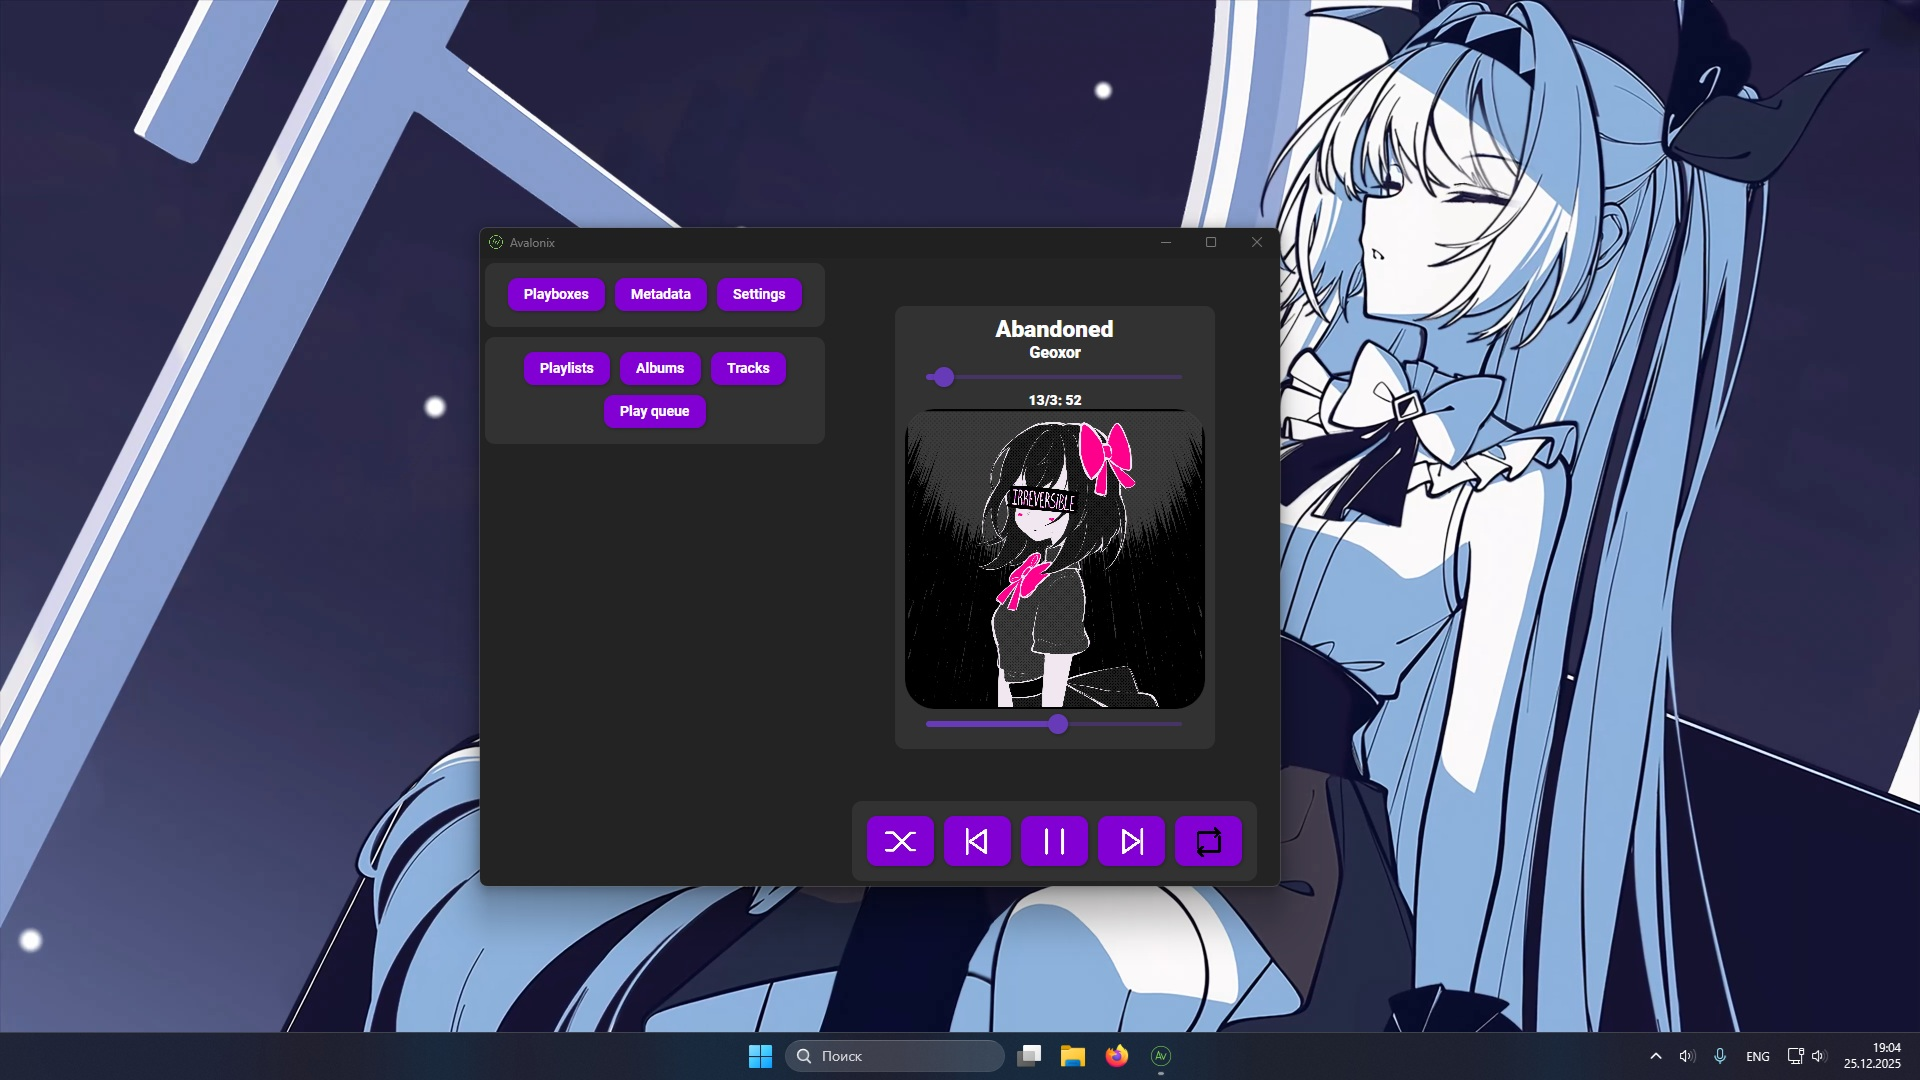
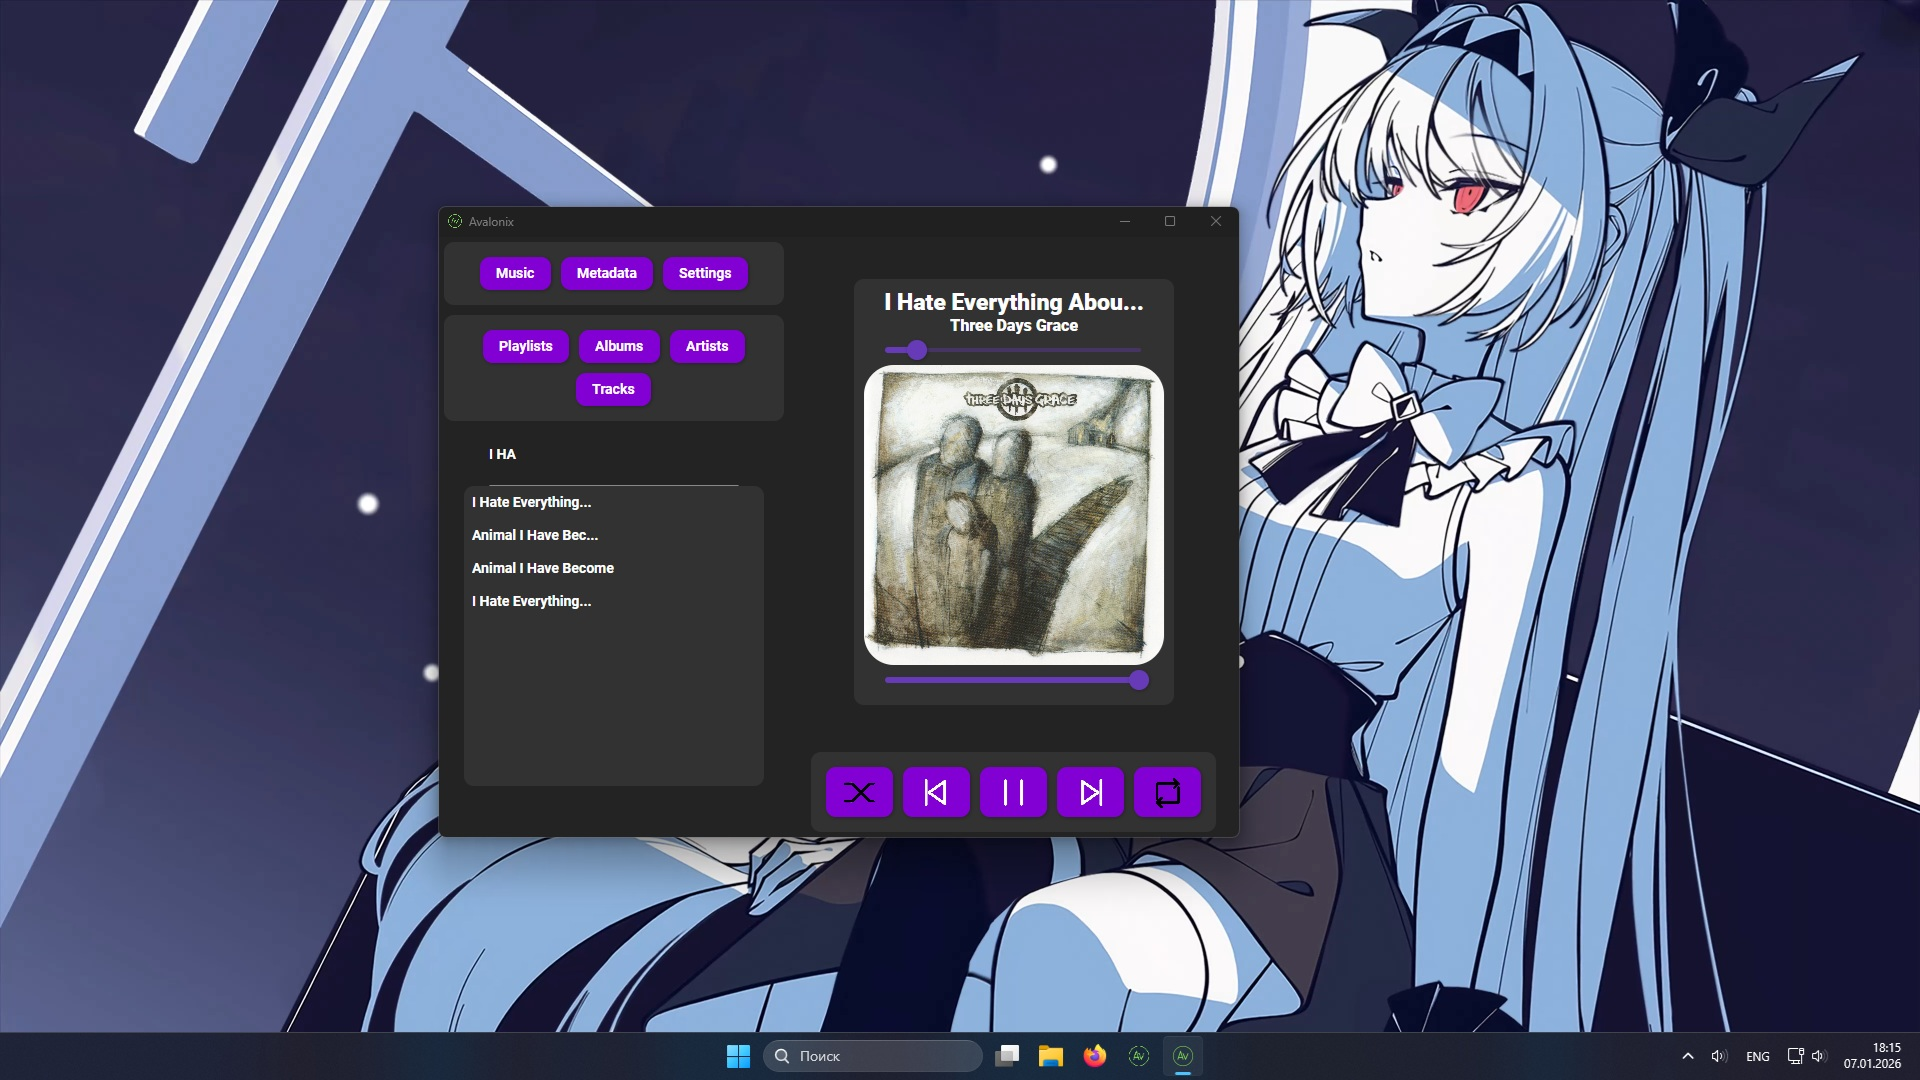
last version

diff --git a/Services/PlayableManager/ArtistManager/ArtistManager.cs b/Services/PlayableManager/ArtistManager/ArtistManager.cs
@@ -30,6 +30,7 @@ public class ArtistManager(
     public CancellationTokenSource? GlobalCancellationTokenSource { get; private set; }
     public IMediaPlayer MediaPlayer { get; } = mediaPlayer;
     public IPlayable? PlayingPlayable { get; set; }
+
     public async Task<List<IPlayable>> GetPlayables()
     {
         var result = await Task.Run(GetArtists);
@@ -72,46 +73,6 @@ public class ArtistManager(
         });
     }
 
-    private async Task<List<Artist>> GetArtists()
-    {
-        await Task.Run(LoadTracks);
-
-        if (!_tracksLoaded)
-        {
-            logger.LogWarning("Tracks metadata not loaded yet. Call LoadTracks() first.");
-            return [];
-        }
-
-        var allValidTracks = _tracks.Where(track =>
-            !string.IsNullOrEmpty(track.Metadata.Artist));
-
-        var albumGroups = allValidTracks.GroupBy(track => new { track.Metadata.Artist});
-
-        return albumGroups.Select(group =>
-            new Artist(group.ToList(), player, logger, settingsManager.Settings.Avalonix.PlaySettings)).ToList();
-    }
-    
-    private async Task LoadTracks()
-    {
-        var paths = diskManager.GetMusicFiles();
-
-        _tracks.Clear();
-        _tracksLoaded = false;
-
-        var tracks = new Track[paths.Count];
-
-        for (var i = 0; i < tracks.Length; i++)
-        {
-            var path = paths[i];
-            var track = new Track(path, cacheManager);
-            await track.FillPrimaryMetaData();
-            tracks[i] = track;
-        }
-
-        _tracks.AddRange(tracks);
-        _tracksLoaded = true;
-    }
-
     public event Action<bool> PlaybackStateChanged
     {
         add => player.PlaybackStateChanged += value;
@@ -137,4 +98,44 @@ public class ArtistManager(
     }
 
     public event Action? PlayableChanged;
+
+    private async Task<List<Artist>> GetArtists()
+    {
+        await Task.Run(LoadTracks);
+
+        if (!_tracksLoaded)
+        {
+            logger.LogWarning("Tracks metadata not loaded yet. Call LoadTracks() first.");
+            return [];
+        }
+
+        var allValidTracks = _tracks.Where(track =>
+            !string.IsNullOrEmpty(track.Metadata.Artist));
+
+        var albumGroups = allValidTracks.GroupBy(track => new { track.Metadata.Artist });
+
+        return albumGroups.Select(group =>
+            new Artist(group.ToList(), player, logger, settingsManager.Settings.Avalonix.PlaySettings)).ToList();
+    }
+
+    private async Task LoadTracks()
+    {
+        var paths = diskManager.GetMusicFiles();
+
+        _tracks.Clear();
+        _tracksLoaded = false;
+
+        var tracks = new Track[paths.Count];
+
+        for (var i = 0; i < tracks.Length; i++)
+        {
+            var path = paths[i];
+            var track = new Track(path, cacheManager);
+            await track.FillPrimaryMetaData();
+            tracks[i] = track;
+        }
+
+        _tracks.AddRange(tracks);
+        _tracksLoaded = true;
+    }
 }

diff --git a/View/SecondaryWindows/AboutWindow/AboutWindow.axaml.cs b/View/SecondaryWindows/AboutWindow/AboutWindow.axaml.cs
@@ -15,7 +15,7 @@ public partial class AboutWindow : Window, ISecondaryWindow
     private const string Url = "https://github.com/AvalonixPlayer/Avalonix";
     private readonly ILogger _logger;
     private readonly IVersionManager _versionManager;
-    
+
     public AboutWindow(ILogger logger, IVersionManager versionManager)
     {
         _logger = logger;
@@ -23,6 +23,14 @@ public partial class AboutWindow : Window, ISecondaryWindow
         _versionManager = versionManager;
         InitializeControls();
         _logger.LogInformation("About window loaded");
+    }
+
+    public void InitializeControls()
+    {
+        var currentRelease = _versionManager.CurrentRelease;
+        var lastRelease = Task.Run(_versionManager.GetLastRelease).Result;
+        VersionLabel.Text = $"Version: {currentRelease.Version}";
+        LastVersionLabel.Text = $"Last Version: {lastRelease.Version}";
     }
 
     private void OpenUrlButton_OnClick(object? sender, RoutedEventArgs e)
@@ -56,13 +64,5 @@ public partial class AboutWindow : Window, ISecondaryWindow
         {
             _logger.LogError("An error occurred: {ExMessage}", ex.Message);
         }
-    }
-
-    public void InitializeControls()
-    {
-        var currentRelease = _versionManager.CurrentRelease;
-        var lastRelease = Task.Run(_versionManager.GetLastRelease).Result;
-        VersionLabel.Text = $"Version: {currentRelease.Version}";
-        LastVersionLabel.Text = $"Last Version: {lastRelease.Version}";
     }
 }

diff --git a/View/SecondaryWindows/EditMetadataWindow/EditMetadataWindow.cs b/View/SecondaryWindows/EditMetadataWindow/EditMetadataWindow.cs
@@ -30,6 +30,18 @@ public partial class EditMetadataWindow : Window, ISecondaryWindow
         InitializeControls();
     }
 
+    public void InitializeControls()
+    {
+        _newCoverPath = null;
+        Title += _track.Metadata.TrackName;
+        Name.Text = _track.Metadata.TrackName;
+        Artist.Text = _track.Metadata.Artist;
+        Album.Text = _track.Metadata.Album;
+        Genre.Text = _track.Metadata.Genre;
+        Year.Text = _track.Metadata.Year.ToString();
+        Lyric.Text = _track.Metadata.Lyric;
+    }
+
     private async void SelectCover(object? sender, RoutedEventArgs e)
     {
         _newCoverPath = await _vm.OpenTrackFileDialogAsync(this);
@@ -54,17 +66,5 @@ public partial class EditMetadataWindow : Window, ISecondaryWindow
             Cover = cover
         };
         await _track.RewriteMetaData(newMetadata);
-    }
-
-    public void InitializeControls()
-    {
-        _newCoverPath = null;
-        Title += _track.Metadata.TrackName;
-        Name.Text = _track.Metadata.TrackName;
-        Artist.Text = _track.Metadata.Artist;
-        Album.Text = _track.Metadata.Album;
-        Genre.Text = _track.Metadata.Genre;
-        Year.Text = _track.Metadata.Year.ToString();
-        Lyric.Text = _track.Metadata.Lyric;
     }
 }

diff --git a/View/MainWindow.axaml.cs b/View/MainWindow.axaml.cs
@@ -1,5 +1,4 @@
 using System;
-using System.Collections.Generic;
 using System.IO;
 using System.Linq;
 using System.Threading.Tasks;
@@ -47,11 +46,11 @@ public partial class MainWindow : Window
     private readonly Image _playButtonImage = GetImageFromAvares("buttons/play.png");
     private readonly ISettingsManager _settingsManager;
 
-    private Bitmap? _currentAlbumCoverBitmap; 
-
     private readonly Timer _timer;
     private readonly IMainWindowViewModel _vm;
     private readonly IWindowManager _windowManager;
+
+    private Bitmap? _currentAlbumCoverBitmap;
 
     private bool _isUserDragging;
 
@@ -204,7 +203,7 @@ public partial class MainWindow : Window
             _logger.LogError("Error while select album: {ex}", ex);
         }
     }
-    
+
     private async void SelectArtist_OnClick(object? sender, RoutedEventArgs e)
     {
         try
@@ -414,9 +413,9 @@ public partial class MainWindow : Window
         var currentTrack = _playablesManager.CurrentTrack;
 
         var coverData = currentTrack?.Metadata.Cover;
-        
+
         _currentAlbumCoverBitmap?.Dispose();
-        
+
         if (coverData == null)
         {
             var pathToAutoCover = _settingsManager.Settings?.Avalonix.AutoAlbumCoverPath;

diff --git a/View/SecondaryWindows/PlayableSelectWindow/PlayableSelectWindow.axaml.cs b/View/SecondaryWindows/PlayableSelectWindow/PlayableSelectWindow.axaml.cs
@@ -25,7 +25,14 @@ public partial class PlayableSelectWindow : Window, ISecondaryWindow
         _playables = Task.Run(async () => await _vm.GetPlayableItems()).Result;
         InitializeControls();
     }
-    
+
+    public void InitializeControls()
+    {
+        PlaylistBox.ItemsSource = _playables.Select(p => p.Name).ToList();
+        Title = _vm.Strategy.WindowTitle;
+        SearchBox.Watermark = _vm.Strategy.ActionButtonText;
+    }
+
     private void SearchBox_OnTextChanged(object? sender, TextChangedEventArgs e)
     {
         var text = SearchBox.Text;
@@ -62,12 +69,5 @@ public partial class PlayableSelectWindow : Window, ISecondaryWindow
         {
             _logger.LogError("Error while starting playlist in SelectWindow: {ex}", ex.Message);
         }
-    }
-
-    public void InitializeControls()
-    {
-        PlaylistBox.ItemsSource = _playables.Select(p => p.Name).ToList();
-        Title = _vm.Strategy.WindowTitle;
-        SearchBox.Watermark = _vm.Strategy.ActionButtonText;
     }
 }

diff --git a/Services/WindowManager/WindowManager.cs b/Services/WindowManager/WindowManager.cs
@@ -65,7 +65,7 @@ public class WindowManager(
     {
         return AlbumSelectWindow_Open(new SelectAndPlayAlbumWindowStrategy(playablesManager));
     }
-    
+
     public PlayableSelectWindow ArtistSelectAndPlayWindow_Open()
     {
         return ArtistSelectAndPlayWindow_Open(new SelectAndPlayArtistWindowStrategy(playablesManager));
@@ -93,7 +93,7 @@ public class WindowManager(
         var vm = new PlayableSelectViewModel(albumManager, strategy);
         return new PlayableSelectWindow(logger, vm);
     }
-    
+
     private PlayableSelectWindow ArtistSelectAndPlayWindow_Open(IPlayableWindowStrategy strategy)
     {
         var vm = new PlayableSelectViewModel(artistManager, strategy);

diff --git a/Model/Media/Artist/Artist.cs b/Model/Media/Artist/Artist.cs
@@ -8,15 +8,15 @@ namespace Avalonix.Model.Media.Artist;
 
 public record Artist : IPlayable
 {
-    public string Name { get; }
-    public PlayQueue PlayQueue { get; }
-
     public Artist(List<Track.Track> tracks, IMediaPlayer player, ILogger logger, PlaySettings settings)
     {
         PlayQueue = new PlayQueue(player, logger, settings);
         Name = tracks[0].Metadata.Artist ?? string.Empty;
         PlayQueue.FillQueue(tracks);
     }
+
+    public string Name { get; }
+    public PlayQueue PlayQueue { get; }
 
     public async Task Play()
     {

diff --git a/View/SecondaryWindows/SettingsWindow/SettingsWindow.axaml.cs b/View/SecondaryWindows/SettingsWindow/SettingsWindow.axaml.cs
@@ -78,7 +78,7 @@ public partial class SettingsWindow : Window
     private void AddPath_OnClick(object? sender, RoutedEventArgs e)
     {
         var pathToAdd = Task.Run(() => _vm.OpenFolderDialogAsync(this)).Result;
-        if(pathToAdd == null) return;
+        if (pathToAdd == null) return;
         if (Directory.Exists(pathToAdd) && !PathsBox.Items.Contains(pathToAdd))
             PathsBox.Items.Add(pathToAdd);
     }

diff --git a/View/SecondaryWindows/PlaylistCreateWindow/PlaylistCreateWindow.axaml.cs b/View/SecondaryWindows/PlaylistCreateWindow/PlaylistCreateWindow.axaml.cs
@@ -22,10 +22,10 @@ public partial class PlaylistCreateWindow : Window, ISecondaryWindow
         InitializeComponent();
         InitializeControls();
         _logger.LogInformation("PlayableCreateWindow opened");
-        
+
         ObserveDirectory.IsCheckedChanged += ObserveDirectoryCheckedChanged;
     }
-    
+
     public void InitializeControls()
     {
         Title = _vm.Strategy.WindowTitle;

diff --git a/Services/VersionManager/VersionManager.cs b/Services/VersionManager/VersionManager.cs
@@ -8,7 +8,7 @@ public class VersionManager : IVersionManager
 {
     private const string ReleaseUrl = "https://github.com/AvalonixPlayer/Avalonix/blob/main/Release";
 
-    public Release CurrentRelease => new("2.3.1");
+    public Release CurrentRelease => new("2.4.0");
 
     public async Task<Release> GetLastRelease()
     {

diff --git a/View/SecondaryWindows/ShowTrackWindow/ShowTrackWindow.axaml.cs b/View/SecondaryWindows/ShowTrackWindow/ShowTrackWindow.axaml.cs
@@ -8,6 +8,7 @@ namespace Avalonix.View.SecondaryWindows.ShowTrackWindow;
 public partial class ShowTrackWindow : Window, ISecondaryWindow
 {
     private readonly Track _track;
+
     public ShowTrackWindow(ILogger<WindowManager> logger, Track track)
     {
         InitializeComponent();

diff --git a/Services/PlayableManager/ArtistManager/IArtistManager.cs b/Services/PlayableManager/ArtistManager/IArtistManager.cs
@@ -2,5 +2,4 @@ namespace Avalonix.Services.PlayableManager.ArtistManager;
 
 public interface IArtistManager : IPlayableManager
 {
-    
 }
